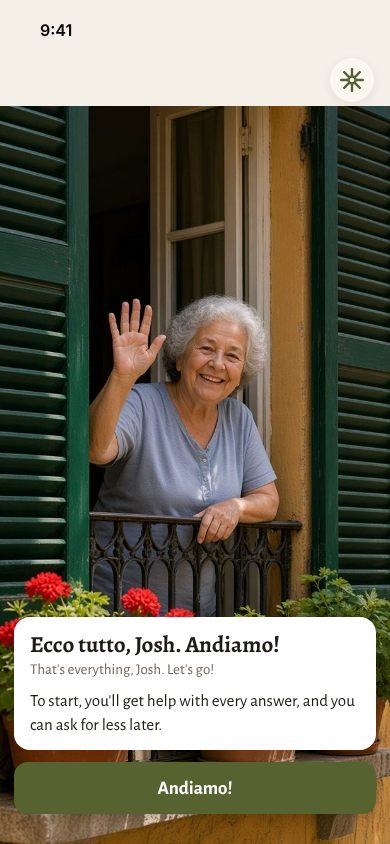
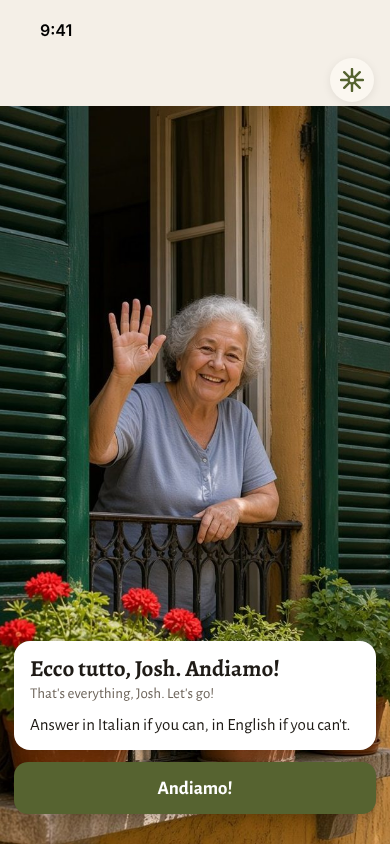
Orientation step 7: answer in Italian if you can, in English if you can't
Replaces "you'll get help with every answer", which described the reply
panel. Josh agreed. Not built yet (steps 4-7 are the laptop's next).

Claude-Session: https://claude.ai/code/session_01HuSMtjsR1f1fbNVszYXEaS

Changed region(s): [[0.0308, 0.7085, 0.9846, 0.8626]]

diff --git a/docs/orientation-script.md b/docs/orientation-script.md
@@ -76,7 +76,7 @@ Josh, 2026-10-23: no beats explaining the buttons (the circle, talking with char
 
 ## 7 · Off you go
 
-**She:** *Ecco tutto, {name}. Andiamo!* "That's everything. To start, you'll get help with every answer, and you can ask for less later."
+**She:** *Ecco tutto, {name}. Andiamo!* "That's everything. Answer in Italian if you can, in English if you can't."
 **Learner:** **Andiamo!** → the city list.
 
 ---
